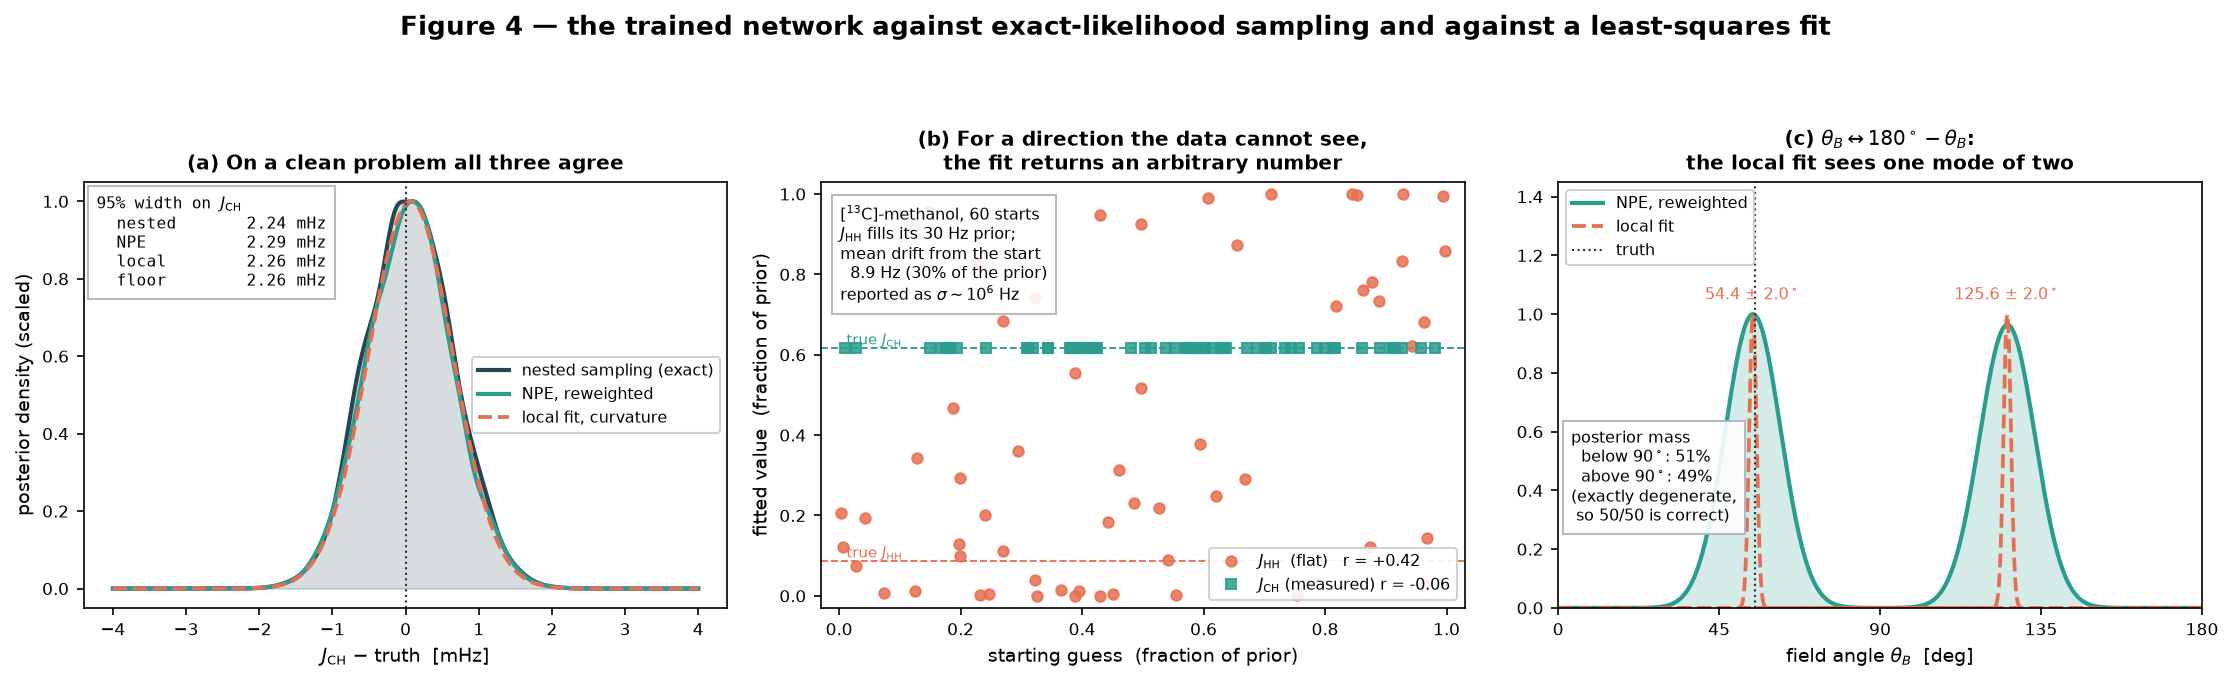
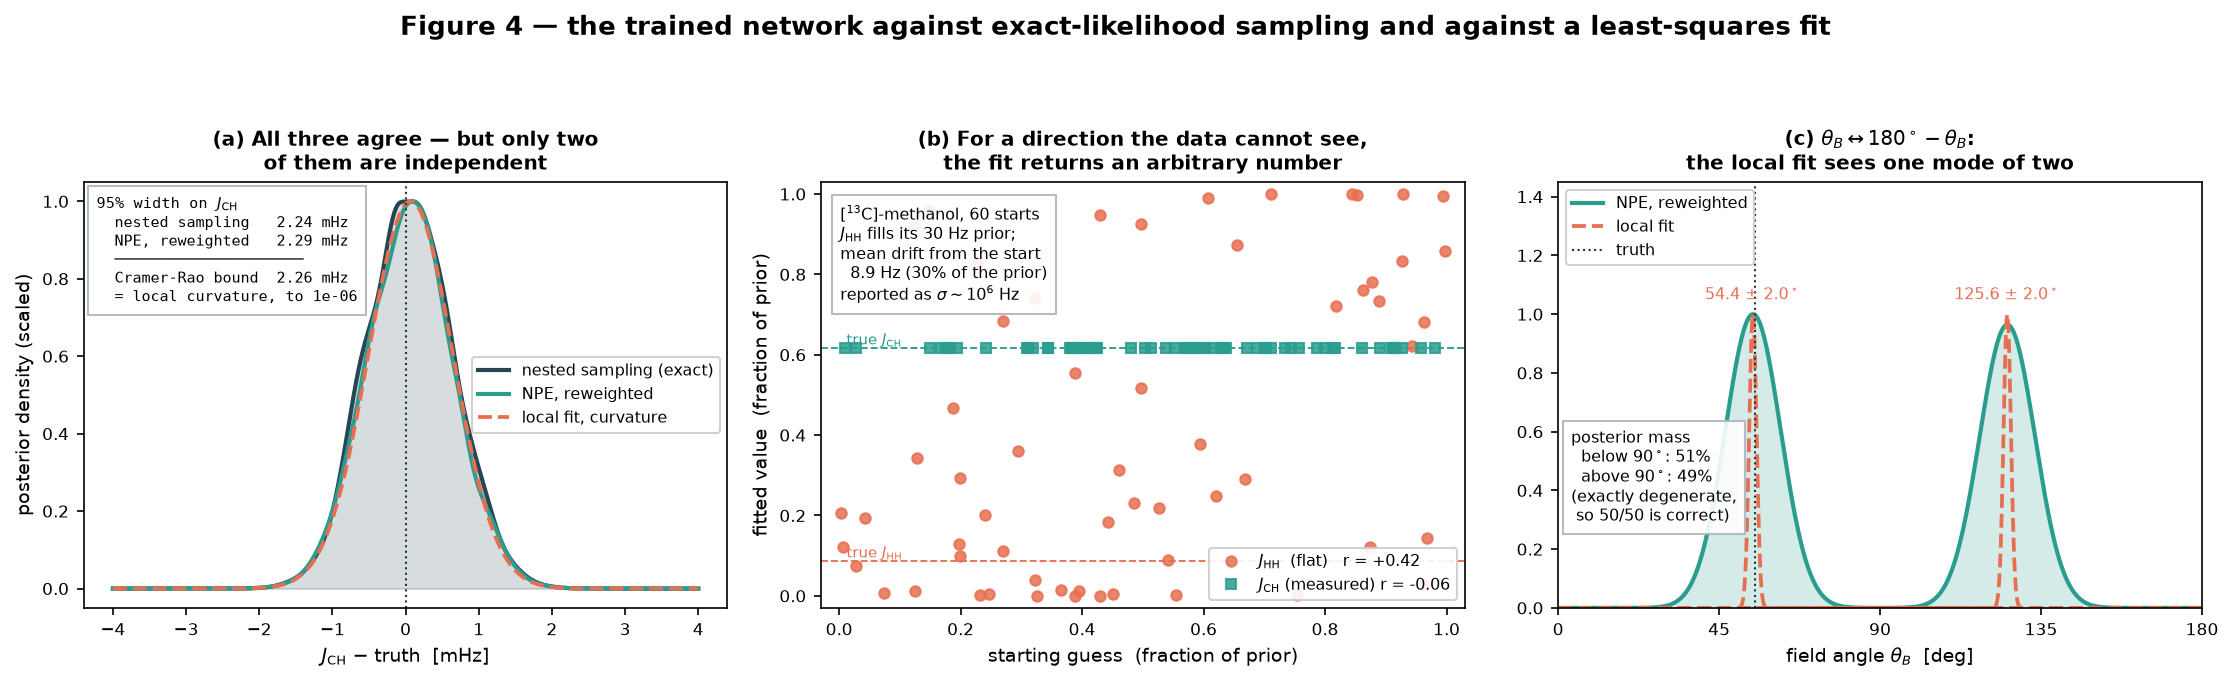
Figure 4(a): say once that the curvature bar is the Cramer-Rao bound
The panel listed four widths as if they were four results. Two of them are
the same quantity: for a Gaussian likelihood the observed information at the
optimum is the expected information, so the least-squares curvature bar and
the information floor cannot disagree, and printing them on adjacent lines
implied a corroboration that was not there.

Measure the gap instead of assuming it. panel_a now computes the Fisher
matrix at the fitted point alongside the numerical Hessian and reports
|H - F| / |F| = 1.1e-06 in the figure itself. The box groups the two
genuinely independent results -- nested sampling on the exact likelihood and
the reweighted network -- above a rule, then gives the bound once.

The corrected reading is the stronger one and the title now carries it: two
fully Bayesian methods landing within 2% of the asymptotic bound says the
posterior is Gaussian to that accuracy, which is why the local fit ties here
and fails on panels (b) and (c).

The demo page's HTML caption already said this; the embedded image did not.

Claude-Session: https://claude.ai/code/session_013FEeCKFRj576ZweqBitzx4

Changed region(s): [[0.0309, 0.2771, 0.1545, 0.4619], [0.0927, 0.1848, 0.2781, 0.2771]]

diff --git a/make_figure4.py b/make_figure4.py
@@ -75,7 +75,7 @@ def panel_a(ax, seed=SEED):
                                     max_num_epochs=150)
     m = zi.evaluate(prob, posterior, theta_true, seed=seed, n_post=20000)
     fit = lb.local_fit(prob, x_obs, 0.5 * (prob.low + prob.high))
-    sigma, _, _, _ = lb.curvature_errors(prob, x_obs, fit["theta"])
+    sigma, _, hess, _ = lb.curvature_errors(prob, x_obs, fit["theta"])
 
     j0 = theta_true[0]
     grid = np.linspace(-4.0, 4.0, 800)                    # mHz from the truth
@@ -102,22 +102,31 @@ def panel_a(ax, seed=SEED):
     wp = w95(m["samples"][:, 0], m["weights"])
     wl = 2 * 1.96 * sigma[0] * 1e3
     floor = zi.information_floor(prob, theta_true)[0] * 1e3
+
+    # The curvature bar and the Cramer-Rao floor are not two results. For a
+    # Gaussian likelihood the observed information at the optimum IS the
+    # expected information, so listing them as separate lines would imply
+    # corroboration that is not there. Measure the gap and say so.
+    fisher, _ = zi.fisher_matrix(prob, fit["theta"])
+    rel = float(np.abs(hess - fisher).max() / np.abs(fisher).max())
+
     ax.text(0.02, 0.97,
             f"95% width on $J_{{\\rm CH}}$\n"
-            f"  nested      {wn:5.2f} mHz\n"
-            f"  NPE         {wp:5.2f} mHz\n"
-            f"  local       {wl:5.2f} mHz\n"
-            f"  floor       {floor:5.2f} mHz",
-            transform=ax.transAxes, va="top", ha="left", fontsize=7.6,
+            f"  nested sampling  {wn:5.2f} mHz\n"
+            f"  NPE, reweighted  {wp:5.2f} mHz\n"
+            f"  " + "\u2500" * 21 + "\n"
+            f"  Cramer-Rao bound {floor:5.2f} mHz\n"
+            f"  = local curvature, to {rel:.0e}",
+            transform=ax.transAxes, va="top", ha="left", fontsize=7.4,
             family="monospace",
             bbox=dict(fc="white", ec="#adb5bd", alpha=0.9, pad=4))
     ax.set_xlabel(r"$J_{\rm CH}$ $-$ truth  [mHz]", fontsize=9)
     ax.set_ylabel("posterior density (scaled)", fontsize=9)
-    ax.set_title("(a) On a clean problem all three agree", fontsize=9.5,
-                 fontweight="bold")
+    ax.set_title("(a) All three agree \u2014 but only two\nof them are independent",
+                 fontsize=9.5, fontweight="bold")
     ax.legend(fontsize=7.5, loc="center right", framealpha=0.9)
     ax.tick_params(labelsize=8)
-    return dict(nested=wn, npe=wp, local=wl, floor=floor)
+    return dict(nested=wn, npe=wp, local=wl, floor=floor, curv_vs_fisher=rel)
 
 
 def panel_b(ax, seed=SEED, n_starts=60):
@@ -260,7 +269,8 @@ def main():  # pragma: no cover - figure
     fig.savefig(OUT, dpi=150, facecolor="white", bbox_inches="tight")
 
     print(f"\n  (a) nested {a['nested']:.2f} / NPE {a['npe']:.2f} / "
-          f"local {a['local']:.2f} mHz, floor {a['floor']:.2f}")
+          f"local {a['local']:.2f} mHz, floor {a['floor']:.2f}"
+          f"  (curvature vs Fisher: {a['curv_vs_fisher']:.1e})")
     print(f"  (b) corr(start, fit): J_HH {b['r_hh']:+.3f}, "
           f"J_CH {b['r_ch']:+.3f}; mean J_HH drift {b['drift']:.1f} Hz")
     print(f"  (c) posterior mass below 90 deg: {c['mass_below']:.1%}")
